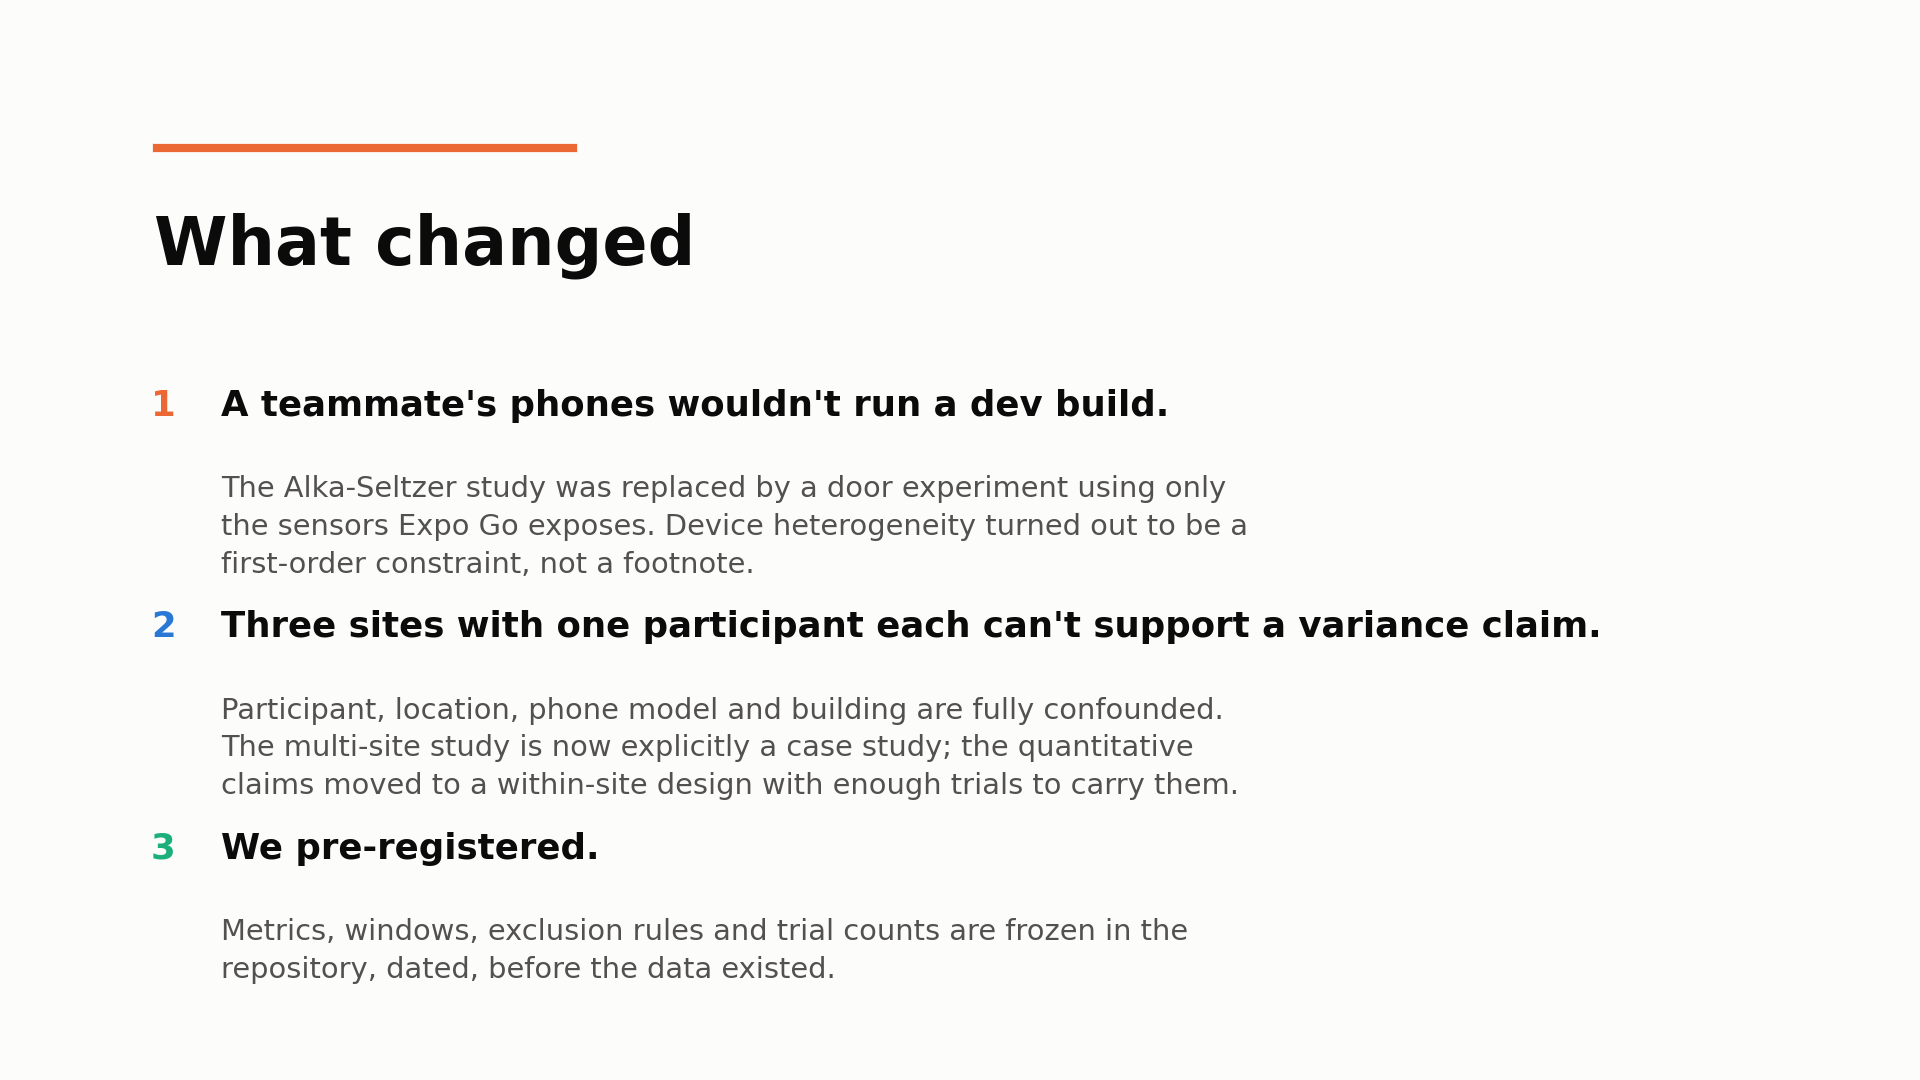
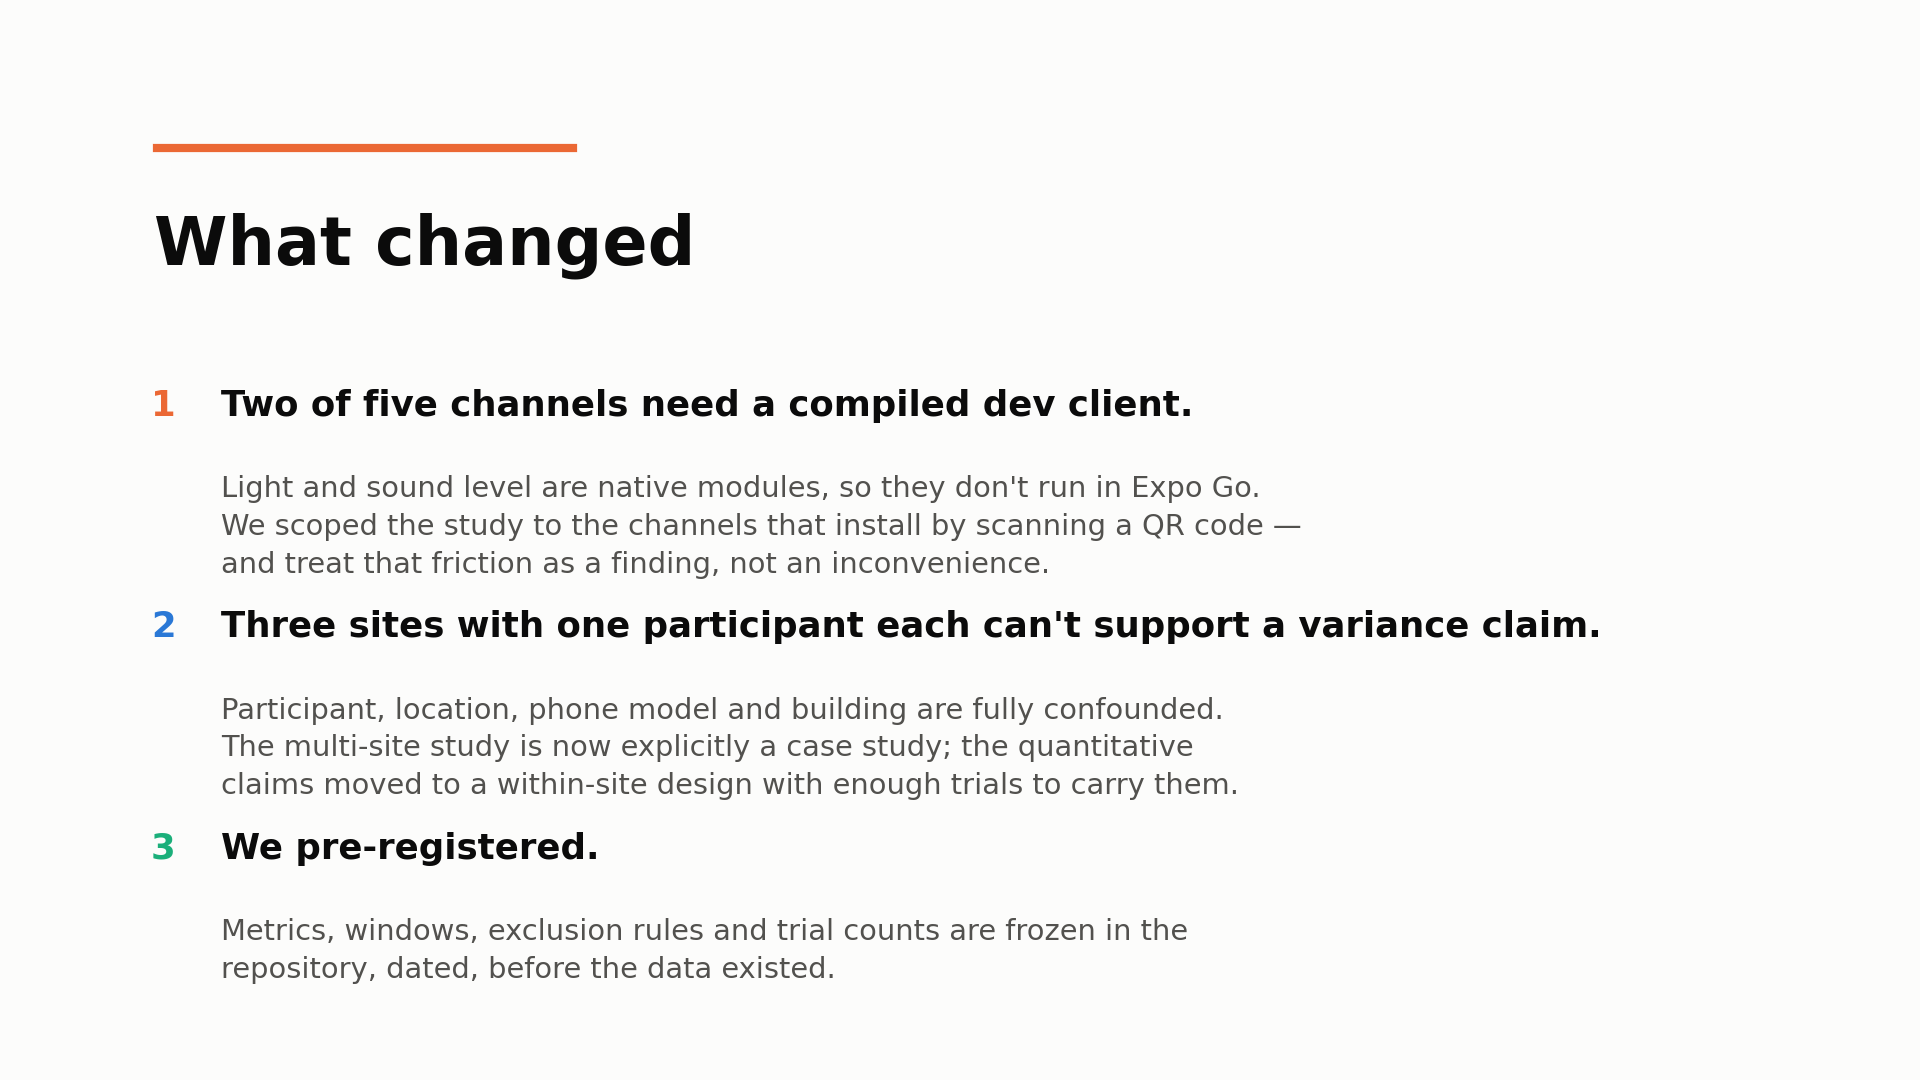
Add the idea and limitations cards; running order
card_idea is the only place the video argues why this belongs in a ubicomp course
rather than a statistics one: the deployment problem is already solved, so the
question is what to do with the sensor already in the room; context-awareness
usually senses a person to serve that person, while this senses a room to serve a
record; and the hack is a derived channel that gains two orders of magnitude from
subtracting a constant rather than from new hardware.

card_limitations splits what the work can claim from what it cannot, and credits
the reviewer's critique by name -- three sites with one participant each cannot
show that a logged covariate reduces between-site variance. Adopting a critique
in your own words reads as judgement rather than concession, and it stops the same
note being written twice.

Both went through a render-and-look pass. The first idea card overflowed the
frame and the first limitations card had its two columns overlapping; neither was
visible from the code.

Claude-Session: https://claude.ai/code/session_01SPBNbW2m945r8WjW3rBHGg

Changed region(s): [[0.125, 0.4278, 0.6562, 0.55], [0.0938, 0.3667, 0.625, 0.3972]]

diff --git a/analysis/cards.py b/analysis/cards.py
@@ -55,10 +55,10 @@ def card_changed():
     rule(ax, .86)
     ax.text(.08, .755, "What changed", fontsize=30, fontweight="bold", color=INK)
     items = [
-        ("A teammate's phones wouldn't run a dev build.",
-         "The Alka-Seltzer study was replaced by a door experiment using only\n"
-         "the sensors Expo Go exposes. Device heterogeneity turned out to be a\n"
-         "first-order constraint, not a footnote."),
+        ("Two of five channels need a compiled dev client.",
+         "Light and sound level are native modules, so they don't run in Expo Go.\n"
+         "We scoped the study to the channels that install by scanning a QR code —\n"
+         "and treat that friction as a finding, not an inconvenience."),
         ("Three sites with one participant each can't support a variance claim.",
          "Participant, location, phone model and building are fully confounded.\n"
          "The multi-site study is now explicitly a case study; the quantitative\n"
@@ -104,6 +104,202 @@ def card_next():
     save(fig, "card_next")
 
 
+# --- front half: plan, architecture, channels, privacy -----------------------
+
+def card_plan():
+    fig, ax = _card()
+    rule(ax, .86, color=BLUE)
+    ax.text(.08, .755, "The plan", fontsize=30, fontweight="bold", color=INK)
+    items = [
+        ("Build", "an ambient-context recorder: pressure, motion, magnetic field,\n"
+                  "light and sound level on one clock, exported as a file bound to\n"
+                  "a named experiment"),
+        ("Reproduce", "two known sensing techniques on commodity hardware, and see\n"
+                      "what survives the move off instrument-grade sensors"),
+        ("Evaluate", "whether any of it is trustworthy — sampling health, agreement\n"
+                     "between devices, and whether a logged covariate explains\n"
+                     "variation between runs"),
+    ]
+    y = .615
+    for i, (head, body) in enumerate(items):
+        ax.text(.085, y, head, fontsize=17, color=[BLUE, ORANGE, AQUA][i],
+                fontweight="bold", va="top")
+        ax.text(.27, y, body, fontsize=13.5, color=INK2, va="top", linespacing=1.5)
+        y -= .185
+    ax.text(.08, .105, "Constraint, chosen deliberately:  no special hardware.",
+            fontsize=15, color=INK, fontweight="bold")
+    ax.text(.08, .055, "A phone every lab already owns, or it doesn't get used.",
+            fontsize=13.5, color=INK2)
+    save(fig, "card_plan")
+
+
+def card_architecture():
+    fig, ax = _card()
+    rule(ax, .875, color=BLUE)
+    ax.text(.08, .775, "What we built", fontsize=30, fontweight="bold", color=INK)
+
+    layers = [
+        (BLUE,   "Direct sensors",  "expo-sensors",
+         "accelerometer 50 Hz  ·  magnetometer 25 Hz  ·  barometer"),
+        (ORANGE, "Native modules",  "Swift on iOS, Kotlin on Android",
+         "camera-EXIF light  ·  microphone LEVEL only — audio is never recorded"),
+        (AQUA,   "Derived channel", "computed from the raw stream",
+         "vibration: gravity removed, RMS + peak over a 200 ms window"),
+        (INK2,   "Session record",  "one session, one JSON file",
+         "metadata  ·  per-channel sampling health  ·  every sample on one clock"),
+    ]
+    y = .625
+    for col, name, how, what in layers:
+        ax.add_patch(Rectangle((.085, y - .020), .006, .088, color=col,
+                               transform=ax.transAxes))
+        ax.text(.115, y + .038, name, fontsize=17, color=INK, fontweight="bold")
+        ax.text(.315, y + .038, how, fontsize=13, color=col, style="italic")
+        ax.text(.115, y - .004, what, fontsize=13, color=INK2)
+        y -= .152
+    ax.text(.08, .055, "React Native under Expo Go — a teammate joins by scanning a QR code.",
+            fontsize=14, color=INK)
+    save(fig, "card_architecture")
+
+
+def card_channels():
+    fig, ax = _card()
+    rule(ax, .885, color=ORANGE)
+    ax.text(.08, .785, "Channels", fontsize=30, fontweight="bold", color=INK)
+    rows = [
+        ("accelerometer", "[x, y, z]", "g", "50 Hz", BLUE),
+        ("magnetometer", "[x, y, z]", "\u00b5T", "25 Hz", BLUE),
+        ("barometer", "[pressure, rel. altitude]", "hPa, m", "event-driven", BLUE),
+        ("vibration", "[rms, peak]", "g", "5 Hz  \u00b7  derived", AQUA),
+        ("light", "[brightness]", "EV", "5 Hz  \u00b7  dev build", ORANGE),
+        ("micLevel", "[rms]", "dBFS", "10 Hz  \u00b7  dev build", ORANGE),
+        ("sync", "[pulse, of]", "\u2014", "on demand  \u00b7  fiducial", AQUA),
+    ]
+    ax.text(.10, .675, "channel", fontsize=12.5, color=INK2)
+    ax.text(.33, .675, "values", fontsize=12.5, color=INK2)
+    ax.text(.60, .675, "units", fontsize=12.5, color=INK2)
+    ax.text(.76, .675, "rate", fontsize=12.5, color=INK2)
+    y = .60
+    for name, vals, units, rate, col in rows:
+        ax.text(.10, y, name, fontsize=15, color=col, fontweight="bold",
+                family="monospace")
+        ax.text(.33, y, vals, fontsize=14, color=INK2, family="monospace")
+        ax.text(.60, y, units, fontsize=14, color=INK2)
+        ax.text(.76, y, rate, fontsize=13.5, color=INK2)
+        y -= .073
+    ax.text(.08, .055,
+            "Sound is a level, never a waveform \u2014 there is no audio to draw one from.",
+            fontsize=14, color=INK)
+    save(fig, "card_channels")
+
+
+def card_privacy():
+    fig, ax = _card()
+    rule(ax, .875, color=AQUA)
+    ax.text(.08, .775, "Built in, not promised", fontsize=30, fontweight="bold", color=INK)
+    items = [
+        "Audio is never recorded. The microphone channel stores a level in dBFS.",
+        "Reference video is audio-free by construction \u2014 the flag is invariantly false.",
+        "Location, if enabled at all, is a reverse-geocoded region and an altitude.\nNever coordinates. Absent by default.",
+        "Recording is session-scoped and user-initiated. There is no background collection.",
+    ]
+    y = .625
+    for t in items:
+        ax.text(.085, y, "\u2713", fontsize=17, color=AQUA, fontweight="bold", va="top")
+        ax.text(.125, y, t, fontsize=14.5, color=INK2, va="top", linespacing=1.5)
+        y -= .135
+    ax.text(.08, .085,
+            "Longitudinal ambient data is still data about a household.",
+            fontsize=15, color=INK, fontweight="bold")
+    ax.text(.08, .035,
+            "Occupancy, routine, device fingerprint, floor of a building \u2014 the report says so.",
+            fontsize=13.5, color=INK2)
+    save(fig, "card_privacy")
+
+
+# --- the idea ----------------------------------------------------------------
+
+def card_idea():
+    """Why this belongs in a ubicomp course rather than a stats one."""
+    fig, ax = _card()
+    rule(ax, .905, color=AQUA)
+    ax.text(.08, .825, "The idea", fontsize=28, fontweight="bold", color=INK)
+
+    ax.text(.08, .715, "Ubicomp asks what the sensors say about the person.",
+            fontsize=19, color=INK2, va="top")
+    ax.text(.08, .655, "We asked what they say about the room \u2014 and whether",
+            fontsize=19, color=INK, va="top", fontweight="bold")
+    ax.text(.08, .600, "that is worth writing down.",
+            fontsize=19, color=INK, va="top", fontweight="bold")
+
+    beats = [
+        (BLUE, "The deployment problem is already solved.",
+         "Weiser's calm technology arrived as a phone in every pocket. The hard part is not\n"
+         "getting a sensor into the room \u2014 it is what to do with the one already there."),
+        (ORANGE, "Context-awareness, pointed the other way.",
+         "Activity recognition senses a person to serve that person. Here the sensing serves a\n"
+         "record \u2014 an experiment that has to survive being repeated somewhere else, later."),
+        (AQUA, "The hack is a derived channel.",
+         "Gravity is a large constant; a door closing is a rounding error beside it. Subtract the\n"
+         "constant and the same sensor gains two orders of magnitude \u2014 no new hardware."),
+    ]
+    y = .475
+    for col, head, body in beats:
+        ax.add_patch(Rectangle((.085, y - .088), .006, .105, color=col,
+                               transform=ax.transAxes))
+        ax.text(.115, y, head, fontsize=15, color=INK, fontweight="bold", va="top")
+        ax.text(.115, y - .040, body, fontsize=12.5, color=INK2, va="top",
+                linespacing=1.5)
+        y -= .140
+    save(fig, "card_idea")
+
+
+# --- limitations -------------------------------------------------------------
+
+def card_limitations():
+    """The reviewer's critique, adopted rather than defended against."""
+    fig, ax = _card()
+    rule(ax, .905, color=ORANGE)
+    ax.text(.08, .825, "What this is \u2014 and isn't", fontsize=28,
+            fontweight="bold", color=INK)
+
+    ax.text(.085, .700, "A FEASIBILITY STUDY", fontsize=14.5, color=AQUA,
+            fontweight="bold", va="top")
+    left = ["Detects a real event at 13\u2013109\u00d7 its noise floor",
+            "Repeatable to ~1% within a condition",
+            "Instrument characterised \u2014 warm-up, drift,\nsampling health",
+            "A derived channel beats its raw sensor, 3\u20135\u00d7"]
+    y = .625
+    for t in left:
+        ax.text(.085, y, "\u2713", fontsize=13.5, color=AQUA, fontweight="bold", va="top")
+        ax.text(.118, y, t, fontsize=13, color=INK2, va="top", linespacing=1.45)
+        y -= .085
+
+    ax.text(.545, .700, "NOT A GENERALISATION", fontsize=14.5, color=ORANGE,
+            fontweight="bold", va="top")
+    right = ["One participant per site \u2014 person, city,\nphone and building are confounded",
+             "One operator, one room, one device family",
+             "Light and sound level untested \u2014 dev build",
+             "Cross-device agreement: one pair, one site"]
+    y = .625
+    for t in right:
+        ax.text(.545, y, "\u2014", fontsize=13.5, color=ORANGE, va="top")
+        ax.text(.578, y, t, fontsize=13, color=INK2, va="top", linespacing=1.45)
+        y -= .085
+
+    ax.add_patch(Rectangle((.08, .245), .84, .003, color="#e2e1dd",
+                           transform=ax.transAxes))
+    ax.text(.08, .195,
+            "Our reviewer said it first: three sites with one participant each cannot show that a",
+            fontsize=14, color=INK, va="top")
+    ax.text(.08, .143,
+            "logged covariate reduces between-site variance. They were right \u2014 so the quantitative",
+            fontsize=14, color=INK, va="top")
+    ax.text(.08, .091,
+            "claims moved to a within-site design, and the multi-site work stays a case study.",
+            fontsize=14, color=INK, va="top")
+    save(fig, "card_limitations")
+
+
 # --- title -------------------------------------------------------------------
 
 def card_title():
@@ -141,4 +337,6 @@ if __name__ == "__main__":
     import os
     os.makedirs("figures", exist_ok=True)
     print("rendering cards:")
-    card_title(); card_changed(); card_next(); card_contributions(); card_reenactment()
+    card_title(); card_idea(); card_plan(); card_architecture(); card_channels()
+    card_privacy(); card_limitations()
+    card_changed(); card_next(); card_contributions(); card_reenactment()
